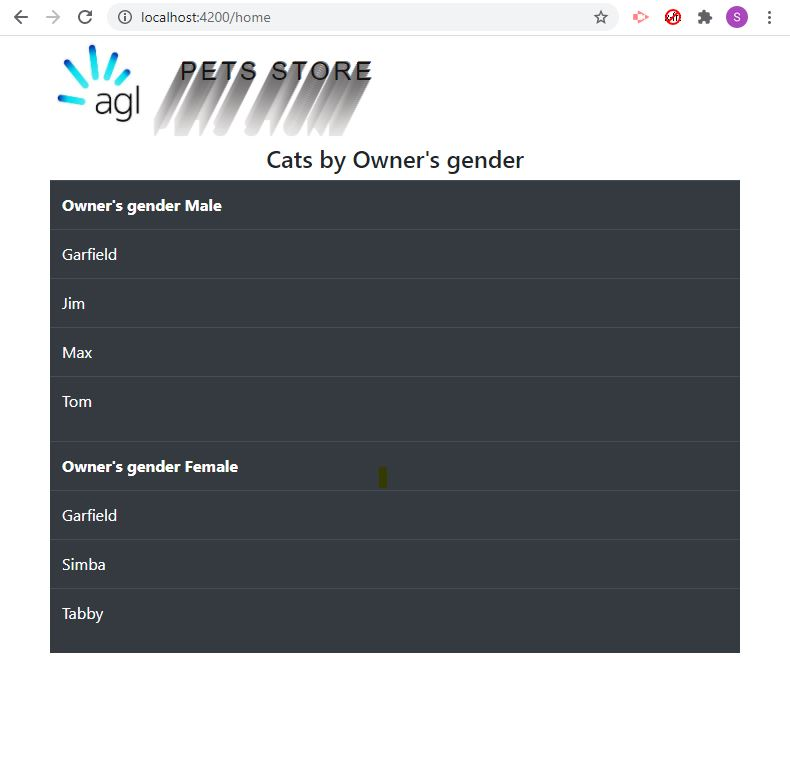
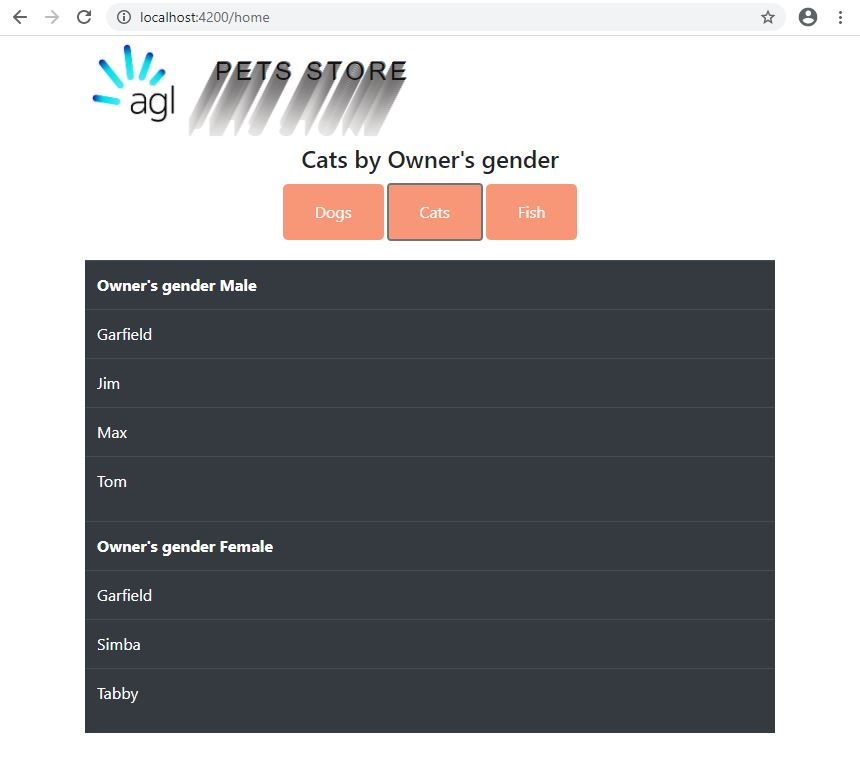
added filtering by pet type to ui.

diff --git a/agl-ui/src/app/components/agl-pets/agl-pets.component.html b/agl-ui/src/app/components/agl-pets/agl-pets.component.html
@@ -1,22 +1,32 @@
 <span class="aligncenter">
-  <h4>Cats by Owner's gender</h4>
+  <h4>{{PetType[selectedPetType]}}{{ selectedPetType != PetType.Fish ? "s" : "" }} by Owner's gender</h4>
 </span>
 
 <div class="panel panel-primary" style="text-align:center">    
   <div class="panel-body">
+      <div class="form-group" style="text-align:center;"> 
+        <input class="button" type="button" value="Dogs" (click)="getPets(1)" />
+        <input class="button" type="button" value="Cats" (click)="getPets(2)" />
+        <input class="button" type="button" value="Fish" (click)="getPets(3)" />         
+      </div>          
+  </div>
+</div>
+
+<div class="panel panel-primary" style="text-align:center">    
+  <div class="panel-body">
       <div class="form-group" style="text-align:left;">                                                                  
-        <table *ngIf="catsByPersonGender != null"  class="table table-dark">          
+        <table *ngIf="petsByPersonGender != null"  class="table table-dark">          
           <tbody>
-              <tr *ngFor="let petsByPersonGender of catsByPersonGender.petsByPersonGender">
+              <tr *ngFor="let petsByPersonGender of petsByPersonGender.petsByPersonGender">
                 <table class="table table-dark table-hover">
                   <tr>
                     <th>
                       Owner's gender {{ genders[petsByPersonGender.gender] }}
                     </th>
                   </tr>
-                  <tr *ngFor="let cat of petsByPersonGender.pets">
+                  <tr *ngFor="let pet of petsByPersonGender.pets">
                       <td>
-                        {{ cat.name }}
+                        {{ pet.name }}
                       </td>
                   </tr>
                 </table>                                

diff --git a/agl-ui/src/app/components/agl-pets/agl-pets.component.ts b/agl-ui/src/app/components/agl-pets/agl-pets.component.ts
@@ -1,6 +1,6 @@
 import { Component, OnInit } from '@angular/core';
 
-import { PetsByPersonGenderCollection, Gender } from '../../models/models';
+import { PetsByPersonGenderCollection, Gender, PetType } from '../../models/models';
 import { PetsService } from '../../services/pets-service/pets-service';
 
 @Component({
@@ -11,8 +11,11 @@ import { PetsService } from '../../services/pets-service/pets-service';
 })
 export class AglPetsComponent implements OnInit {
 
-  catsByPersonGender: PetsByPersonGenderCollection;
+  petsByPersonGender: PetsByPersonGenderCollection;
+  PetType : typeof 
+  PetType = PetType; 
   genders: string[];
+  selectedPetType: PetType;
 
   /******************************************/
   /* Constructor                            */
@@ -22,17 +25,26 @@ export class AglPetsComponent implements OnInit {
 
   async ngOnInit() {
     try {
-      this.catsByPersonGender = null;
-      this.genders = [Gender[Gender.Male], Gender[Gender.Female]];
+      this.petsByPersonGender = null;
+      this.genders = [Gender[Gender.Male], Gender[Gender.Female]];      
 
       //call to API using injected Pets Service
-      this.petsService.GetCatsByPersonGender().subscribe(x => {
-        this.catsByPersonGender = x;
+      this.petsService.GetPetsByPersonGender(PetType.Dog).subscribe(x => {
+        this.selectedPetType = PetType.Dog;
+        this.petsByPersonGender = x;
       });
     }
     catch(e){
       alert(e);
     }
+  }
+
+  async getPets(petType: PetType)
+  {
+    this.petsService.GetPetsByPersonGender(petType).subscribe(x => {
+      this.selectedPetType = petType;
+      this.petsByPersonGender = x;
+    });
   }
 
 }

diff --git a/agl-ui/src/app/services/pets-service/pets-service.ts b/agl-ui/src/app/services/pets-service/pets-service.ts
@@ -20,7 +20,7 @@ export class PetsService implements IPetsService {
     /* Get the pets by pet type and by owner's gender */
     /* Make http call to API                          */
     /**************************************************/
-    private GetPetsByPersonGender(petType: PetType): Observable<PetsByPersonGenderCollection> {
+    public GetPetsByPersonGender(petType: PetType): Observable<PetsByPersonGenderCollection> {
         var url = this.config.apiEndpoint + "petsbypersongender/" + petType.toString();
 
         //http call to API using HttpClient

diff --git a/agl-ui/src/app/services/pets-service/ipets-service.ts b/agl-ui/src/app/services/pets-service/ipets-service.ts
@@ -1,6 +1,7 @@
-import { PetsByPersonGenderCollection } from '../../models/models'
+import { PetsByPersonGenderCollection, PetType } from '../../models/models'
 import { Observable } from 'rxjs';
 
 export interface IPetsService {
+    GetPetsByPersonGender(petType: PetType): Observable<PetsByPersonGenderCollection>
     GetCatsByPersonGender(): Observable<PetsByPersonGenderCollection>;
 }

diff --git a/agl-ui/src/app/components/agl-pets/agl-pets.component.scss b/agl-ui/src/app/components/agl-pets/agl-pets.component.scss
@@ -1,0 +1,17 @@
+.button {
+    background-color: #f4511e;
+    border: none;
+    color: white;
+    padding: 16px 32px;
+    text-align: center;
+    font-size: 16px;
+    margin: 4px 2px;
+    opacity: 0.6;
+    transition: 0.3s;
+    display: inline-block;
+    text-decoration: none;
+    cursor: pointer;
+    border-radius: 5px;
+  }
+  
+  .button:hover {opacity: 1}
